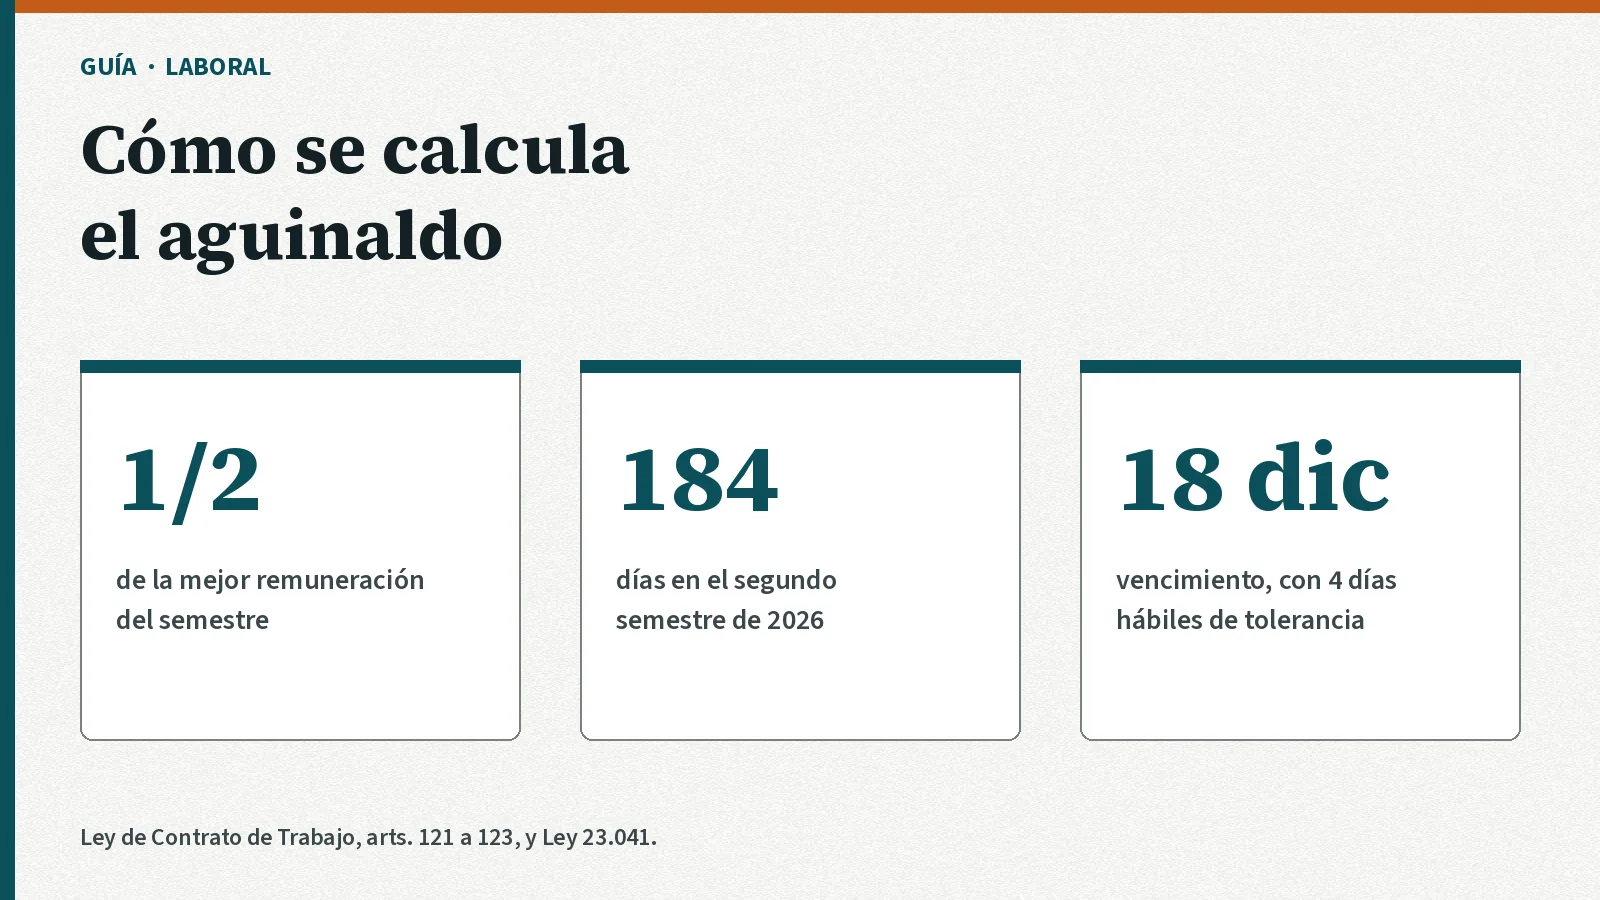
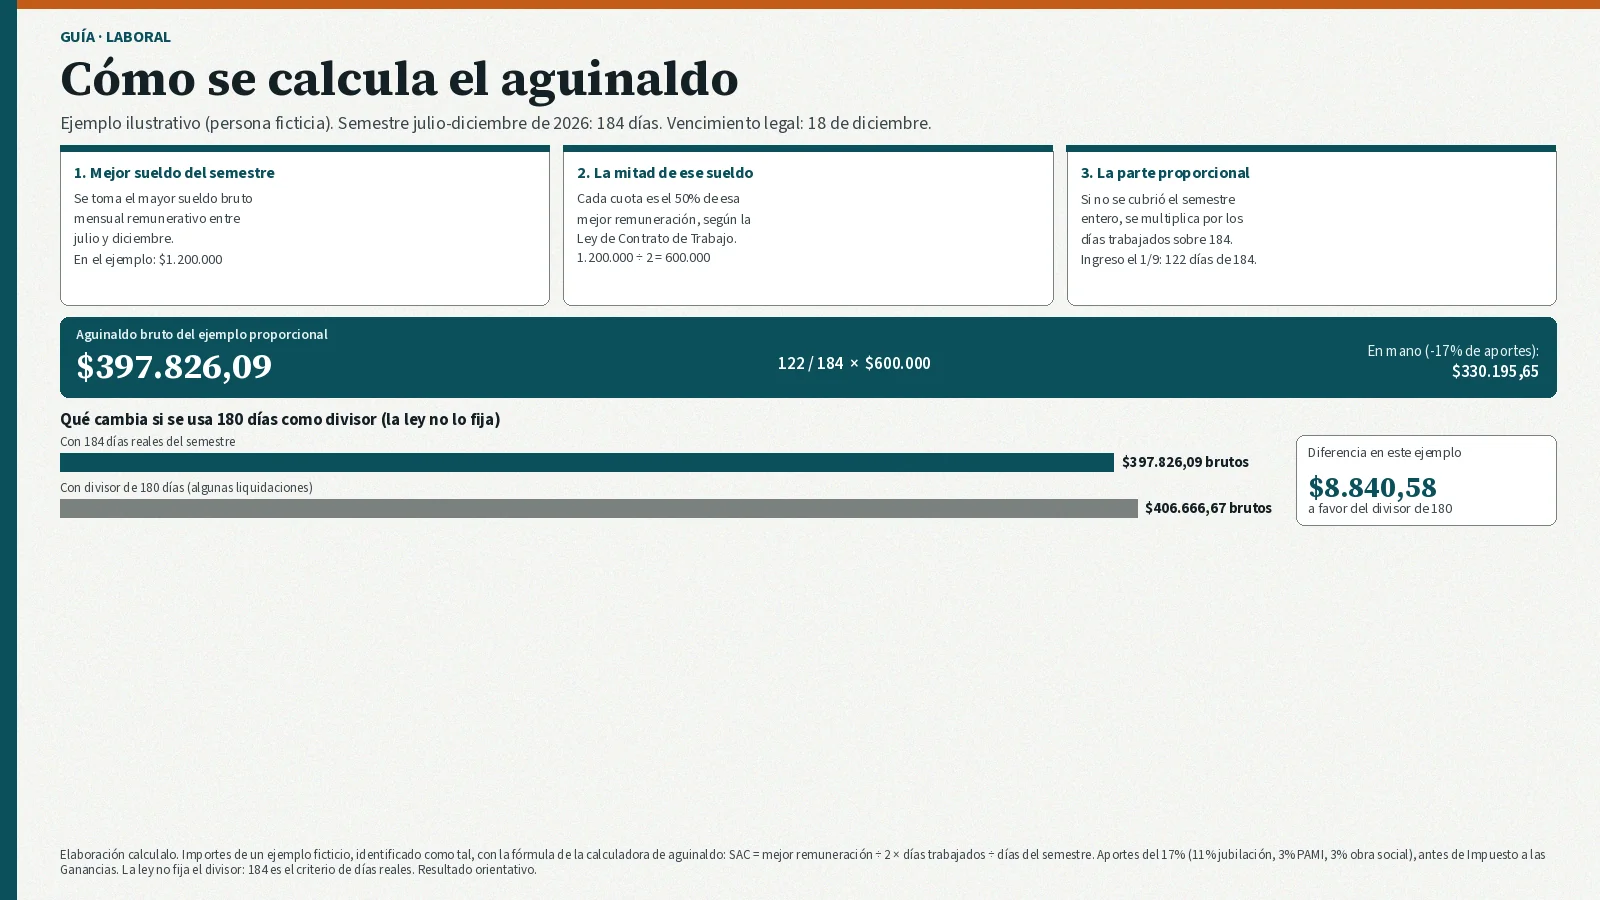
Noticias: tarifas DNI (Res. RENAPER 151/2026) y guía del aguinaldo

diff --git a/content/noticias/como-se-calcula-el-aguinaldo.md b/content/noticias/como-se-calcula-el-aguinaldo.md
@@ -1,44 +1,114 @@
 ---
 titulo: "Cómo se calcula el aguinaldo"
-bajada: "Es la mitad de la mejor remuneración del semestre, o la parte proporcional si no trabajaste los seis meses. En el segundo semestre de 2026 el período tiene 184 días y se paga hasta el 18 de diciembre."
+bajada: "Es la mitad de la mejor remuneración del semestre, o la parte proporcional si no se trabajaron los seis meses. En el segundo semestre de 2026 el período tiene 184 días y el vencimiento legal es el 18 de diciembre."
 slug: como-se-calcula-el-aguinaldo
 tipo: guia
 categoria: laboral
-fechaPublicacion: "2026-11-01"
-fechaActualizacion: "2026-11-01"
+fechaPublicacion: "2026-11-12"
+fechaActualizacion: "2026-11-12"
 autor: "Redacción Calculalo"
-borrador: true
+borrador: false
 imagen:
   src: /noticias/imagenes/como-se-calcula-el-aguinaldo-16x9.webp
-  alt: "Ilustración editorial sobre el cálculo del aguinaldo: la mitad de la mejor remuneración del semestre, 184 días en el segundo semestre de 2026, y vencimiento el 18 de diciembre."
-  credito: "Ilustración: calculalo, con base en la Ley de Contrato de Trabajo y la Ley 23.041."
-  epigrafe: "Tres datos de la guía: el aguinaldo es la mitad de la mejor remuneración del semestre, en el segundo de 2026 el divisor es 184 días y se paga hasta el 18 de diciembre."
+  alt: "Infografía de un ejemplo ficticio para calcular el aguinaldo: mejor sueldo del semestre de $1.200.000, la mitad ($600.000) y la parte proporcional de 122 días sobre 184, que da un bruto de $397.826,09 y $330.195,65 en mano tras el 17% de aportes. Abajo, la comparación con el divisor de 180 días, que en el mismo caso da $406.666,67: $8.840,58 más. La ley no fija el divisor. El vencimiento legal es el 18 de diciembre."
+  credito: "Elaboración calculalo, con un ejemplo ficticio identificado como tal y la fórmula de la calculadora de aguinaldo, con base en la Ley de Contrato de Trabajo y la Ley 23.041."
+  epigrafe: "Pasos de un ejemplo ficticio: la mitad de la mejor remuneración del semestre y, si no se cubrió entero, la parte proporcional sobre 184 días. El vencimiento legal es el 18 de diciembre. El divisor de 180 no está fijado por la ley."
   og: /noticias/imagenes/como-se-calcula-el-aguinaldo-og.webp
 calculadoraRelacionada:
   categoria: laboral
   slug: aguinaldo
 enPocasPalabras:
   - "El sueldo anual complementario (aguinaldo) es la mitad de la mejor remuneración mensual del semestre."
-  - "Si no trabajaste el semestre entero, se calcula en proporción a los días. En el segundo semestre de 2026 esos días son 184."
-  - "Se paga hasta el 18 de diciembre, con una tolerancia de 4 días hábiles. Tiene los mismos aportes del 17% que el sueldo."
+  - "Si no se trabajó el semestre entero, se calcula en proporción a los días. En el segundo semestre de 2026 esos días son 184."
+  - "El artículo 122 de la Ley de Contrato de Trabajo fija el vencimiento de la segunda cuota el 18 de diciembre. El aguinaldo lleva los mismos aportes del 17% que el sueldo."
 fuentes:
-  - titulo: "Ley de Contrato de Trabajo, arts. 121 a 123, y Ley 23.041 (texto en InfoLEG)."
+  - titulo: "Ley de Contrato de Trabajo, texto actualizado, artículos 121, 122, 123 y 128 (InfoLEG)."
     url: "https://servicios.infoleg.gob.ar/infolegInternet/anexos/25000-29999/25552/texact.htm"
-  - titulo: "Vencimientos: 30 de junio y 18 de diciembre, con tolerancia de 4 días hábiles (Ley 23.041, con la modificación de la Ley 27.073)."
-    url: "https://servicios.infoleg.gob.ar/infolegInternet/anexos/25000-29999/25552/texact.htm"
+  - titulo: "Ley 27.073, que modificó el artículo 122 de la LCT y fijó los vencimientos el 30 de junio y el 18 de diciembre."
+    url: "https://servicios.infoleg.gob.ar/infolegInternet/anexos/240000-244999/241014/norma.htm"
+  - titulo: "Ley 23.041, sueldo anual complementario, regla del 50% de la mayor remuneración mensual y carácter de orden público."
+    url: "https://servicios.infoleg.gob.ar/infolegInternet/anexos/25000-29999/28165/norma.htm"
+  - titulo: "Decreto 1078/1984, reglamentación de la Ley 23.041, proporcionalidad sobre el 50% de la mayor remuneración mensual."
+    url: "https://servicios.infoleg.gob.ar/infolegInternet/anexos/105000-109999/105143/norma.htm"
+  - titulo: "Ley 24.241, artículos 6 (el sueldo anual complementario es remuneración) y 11 (aporte personal jubilatorio del 11%)."
+    url: "https://servicios.infoleg.gob.ar/infolegInternet/anexos/0-4999/639/texact.htm"
+  - titulo: "Ley 19.032, artículo 8, inciso d (aporte del 3% al INSSJP-PAMI)."
+    url: "https://www.argentina.gob.ar/normativa/nacional/ley-19032-16081/actualizacion"
+  - titulo: "Ley 23.660, artículo 16, inciso b (aporte del 3% a la obra social)."
+    url: "https://servicios.infoleg.gob.ar/infolegInternet/anexos/0-4999/62/texact.htm"
 faq:
   - q: "¿Cuándo se paga el aguinaldo de diciembre de 2026?"
-    a: "Hasta el 18 de diciembre, con una tolerancia de 4 días hábiles."
-  - q: "¿Por qué se divide por 184 y no por 180?"
-    a: "La ley habla de proporción al tiempo trabajado y no fija un divisor. Usamos los días reales del semestre (184 en el segundo de 2026). Algunas calculadoras usan 180 y dan un monto un poco mayor."
+    a: "El artículo 122 de la Ley de Contrato de Trabajo fija el vencimiento el 18 de diciembre. En 2026 cae viernes. Hay quienes aplican por analogía los cuatro días hábiles del artículo 128, pensado para remuneraciones mensuales o quincenales; no es un segundo vencimiento escrito para el aguinaldo."
+  - q: "¿El aguinaldo de diciembre se calcula solo con el sueldo de ese mes?"
+    a: "No. Se toma el mes de mayor remuneración devengada entre julio y diciembre, que puede ser diciembre u otro. Si diciembre termina siendo el más alto y se había estimado de menos, corresponde ajustar."
+  - q: "¿Tengo derecho al aguinaldo si renuncié en octubre?"
+    a: "Sí, al proporcional por el tiempo trabajado en el semestre, que se paga en la liquidación final."
+  - q: "¿Puedo exigir que me lo calculen con divisor de 180 días?"
+    a: "La ley no elige entre 180 y los días reales del semestre. Es un punto de criterio. La calculadora de calculalo usa 184 días en el segundo semestre de 2026 y lo aclara."
   - q: "¿El aguinaldo tiene descuentos?"
-    a: "Sí. Los mismos aportes del 17% que el sueldo, con el tope de ANSES del mes de pago. También puede pagar Ganancias, según tu situación."
+    a: "Sí. Los mismos aportes del 17% que el sueldo (11% de jubilación, 3% de PAMI y 3% de obra social), con el tope de la base imponible de ANSES del mes de pago. También puede quedar alcanzado por Ganancias, según la situación de cada persona."
 ---
 
-El aguinaldo, o sueldo anual complementario, está en los artículos 121 a 123 de la Ley de Contrato de Trabajo y en la Ley 23.041. Se paga en dos cuotas: la primera, el 30 de junio; la segunda, el 18 de diciembre, con una tolerancia de 4 días hábiles.
+El aguinaldo —en la ley, sueldo anual complementario o SAC— no es un bono discrecional. En la actividad privada se paga en dos cuotas: la primera, el 30 de junio; la segunda, el 18 de diciembre de cada año. Así lo fija el artículo 122 de la Ley de Contrato de Trabajo, con el texto de la Ley 27.073.
 
-La cuota es el 50% de la mayor remuneración mensual devengada en el semestre. Si entraste o saliste en el medio, corresponde la parte proporcional al tiempo trabajado. La ley no fija un divisor de 180 días. En calculalo usamos los días reales del semestre, el criterio habitual del software de liquidación: 181 días en el primer semestre de 2026 (2026 no es bisiesto) y 184 en el segundo, del 1 de julio al 31 de diciembre.
+La cuenta de diciembre mira el semestre que va del 1° de julio al 31 de diciembre. Se toma el 50% de la mayor remuneración mensual devengada por todo concepto en ese período. Esa regla está en el mismo artículo 122 y en la Ley 23.041, de orden público.
 
-La fórmula queda así: aguinaldo = (mejor remuneración ÷ 2) × (días trabajados ÷ días del semestre). Sobre ese bruto se aplican los aportes de ley del trabajador: 11% de jubilación, 3% de PAMI y 3% de obra social, el 17% en total, con el tope de la base imponible de ANSES del mes en que se paga.
+Si la relación laboral empezó o terminó en el medio del semestre, no se pierde el derecho: se paga la parte proporcional al tiempo trabajado, según el Decreto 1078/1984, que reglamenta la Ley 23.041. Para el caso de extinción del contrato, el artículo 123 de la LCT también prevé el pago proporcional.
 
-El aguinaldo también entra en la base de Ganancias, si te corresponde retención. Eso se calcula aparte, en la calculadora de Ganancias de cuarta categoría.
+## Qué hay que tener a mano para hacer la cuenta
+
+Hace falta el mejor sueldo bruto mensual remunerativo del semestre, no el neto de bolsillo. También, si no se trabajó desde el 1° de julio hasta el 31 de diciembre, las fechas de ingreso y de egreso.
+
+Por “mejor remuneración mensual devengada por todo concepto” la norma apunta al mes de mayor total, no al sueldo básico suelto. Entran los conceptos remunerativos de ese mes. Las horas extras, si son remunerativas y forman parte de ese total, pueden convertir a un mes en el más alto del semestre.
+
+No todos los ítems del recibo se comportan igual. Un no remunerativo, un reintegro o un concepto de naturaleza distinta puede quedar fuera de la base. Eso depende del recibo, del convenio y, en caso de duda, de un criterio profesional. La calculadora de aguinaldo parte del total remunerativo que se le indica; no clasifica cada renglón del recibo.
+
+## Cómo se calcula si se trabajó el semestre completo
+
+La fórmula de cada cuota es sencilla: la mitad de esa mejor remuneración.
+
+Ejemplo ilustrativo, con una persona ficticia. Si el mejor sueldo bruto del semestre julio-diciembre fue de $1.200.000 y se trabajaron los 184 días, el aguinaldo bruto de diciembre es $600.000. Sobre ese importe se descuentan los mismos aportes del sueldo: 11% de jubilación, 3% del Instituto Nacional de Servicios Sociales para Jubilados y Pensionados (PAMI) y 3% de obra social, el 17% en total. En mano, antes del Impuesto a las Ganancias, quedan $498.000.
+
+En 2026 el segundo semestre tiene 184 días corridos. El primero tiene 181, porque 2026 no es bisiesto.
+
+## Si se entró o se salió en el medio
+
+Cuando no se cubre el semestre entero, la liquidación habitual —y la que usa la [calculadora de aguinaldo](/laboral/aguinaldo/)— es esta:
+
+SAC = mejor remuneración ÷ 2 × días trabajados ÷ días del semestre.
+
+La ley dice que el pago es proporcional al tiempo trabajado, pero no fija el divisor. Algunas liquidaciones usan 180 días. La calculadora de calculalo toma los días reales del semestre, un criterio frecuente en el software de liquidación. Usar 180 suele dar un importe un poco mayor.
+
+Otro ejemplo ficticio. La misma persona, con el mismo mejor sueldo de $1.200.000, ingresó el 1° de septiembre de 2026 y trabajó hasta el 31 de diciembre: 122 días sobre 184. El aguinaldo bruto queda en $397.826,09. En mano, con el 17% de aportes y antes de Ganancias, $330.195,65.
+
+Si en ese mismo caso se dividiera por 180, el bruto subiría a $406.666,67: $8.840,58 más. No hay una norma que imponga uno u otro divisor. Conviene mirar cómo lo liquida el empleador y, si la diferencia importa, consultarlo.
+
+Los días se cuentan de corrido, desde la fecha de ingreso (o el 1° de julio, si se empezó antes) hasta la de egreso (o el 31 de diciembre). El 3 de octubre, por caso, deja 90 días hasta fin de año.
+
+## La estimación del sueldo de diciembre
+
+Para pagar el 18 de diciembre el empleador todavía no tiene, en muchos casos, el sueldo de ese mes cerrado. El artículo 122 le impone estimar esa remuneración. Si después el salario efectivamente devengado en diciembre es distinto —por un aumento, por horas extras o por otro concepto remunerativo— debe recalcular la cuota. La diferencia se integra al salario de diciembre.
+
+Eso importa cuando diciembre termina siendo el mejor mes del semestre. El aguinaldo pagado el 18 puede quedar corto y corresponder un ajuste con la liquidación de fin de mes.
+
+## Hasta cuándo se paga
+
+La fecha expresa de la segunda cuota es el 18 de diciembre. En 2026 cae viernes.
+
+Hay quienes aplican al SAC el artículo 128 de la LCT, que da hasta cuatro días hábiles para pagar las remuneraciones mensuales o quincenales una vez vencido el período. Esa norma no menciona al aguinaldo. El plazo que la ley escribe para esta cuota sigue siendo el 18 de diciembre. Tratar los cuatro días hábiles como una prórroga automática es una interpretación, no un vencimiento distinto fijado en el artículo 122.
+
+Si la persona deja de trabajar antes —por renuncia, despido u otra extinción— el proporcional se paga en la liquidación final. El artículo 123 habla de la doceava parte de las remuneraciones devengadas en la fracción del semestre. El Decreto 1078/1984, que reglamenta la Ley 23.041, hace la proporcionalidad sobre el 50% de la mayor remuneración mensual del semestre. No siempre dan el mismo número. La calculadora de calculalo, y la cuenta habitual de las cuotas de junio y diciembre, siguen el criterio de la mejor remuneración. Un caso litigioso conviene revisarlo con un abogado laboralista. Para armar la liquidación, también está la [calculadora de liquidación final](/laboral/liquidacion-final/).
+
+## Qué se descuenta y cómo leer el recibo
+
+El aguinaldo bruto no es lo que se deposita. Se le aplican los aportes de la seguridad social, como al sueldo. Además puede quedar alcanzado por el Impuesto a las Ganancias si el conjunto de los ingresos anuales supera las deducciones personales. Eso no se resuelve con una alícuota única: depende de la situación de cada persona. La [calculadora de Ganancias](/impuestos/ganancias/) sirve para estimar la retención anual; la de aguinaldo informa el neto de aportes, antes de ese impuesto.
+
+En el recibo conviene ubicar el ítem del SAC, la base que se tomó, los descuentos y, si hubo un recálculo de diciembre, el ajuste. Si el mejor mes no coincide con el que uno recuerda, vale contrastar los totales remunerativos de julio a diciembre, no solo el básico.
+
+## Límites de esta cuenta
+
+El resultado es orientativo. No reemplaza el asesoramiento de un contador o de un abogado laboralista.
+
+Un convenio colectivo, un acuerdo de empresa o una cláusula particular pueden agregar condiciones, pero no pueden dejar de aplicar la regla de orden público del 50% de la mejor remuneración. La calculadora no incorpora un convenio específico ni clasifica cada concepto del recibo. Tampoco calcula la retención de Ganancias de ese mes.
+
+Con el mejor sueldo bruto del semestre y, si corresponde, las fechas de ingreso o egreso, se puede estimar el importe en la [calculadora de aguinaldo](/laboral/aguinaldo/). El dato que hay que cargar es ese total remunerativo, no el sueldo de bolsillo.

diff --git a/content/noticias/dni-nuevas-tarifas-renaper.md b/content/noticias/dni-nuevas-tarifas-renaper.md
@@ -1,0 +1,64 @@
+---
+titulo: "El DNI regular pasará a costar $20.000 desde el 21 de noviembre"
+bajada: "La Resolución 151/2026, publicada este miércoles en el Boletín Oficial, actualizó el cuadro tarifario del RENAPER, duplicó los aranceles principales del documento y ató las próximas subas al índice de inflación."
+slug: dni-nuevas-tarifas-renaper
+tipo: actualidad
+categoria: finanzas
+fechaPublicacion: "2026-11-12"
+fechaActualizacion: "2026-11-12"
+autor: "Redacción Calculalo"
+borrador: false
+imagen:
+  src: /noticias/imagenes/dni-nuevas-tarifas-renaper-16x9.webp
+  alt: "Gráfico de barras horizontales que compara aranceles del DNI: el regular de personas argentinas pasa de $10.000 a $20.000; el exprés, de $26.000 a $52.000; el de 24 horas hábiles, de $41.000 a $82.000; el instantáneo, de $57.000 a $114.000; y el de personas extranjeras, de $20.000 a $40.000. Las tarifas anteriores son de la Resolución 19/2026, vigentes hasta el 20 de noviembre de 2026; las nuevas, de la Resolución 151/2026, desde el 21 de noviembre."
+  credito: "Elaboración calculalo, con datos de los anexos de la Resolución 19/2026 y de la Resolución 151/2026."
+  epigrafe: "Aranceles principales del DNI: lo que rige hasta el 20 de noviembre de 2026 y lo que valdrá desde el 21, según los anexos de las Resoluciones 19/2026 y 151/2026."
+  og: /noticias/imagenes/dni-nuevas-tarifas-renaper-og.webp
+calculadoraRelacionada:
+  categoria: finanzas
+  slug: inflacion
+enPocasPalabras:
+  - "El DNI regular de personas argentinas pasa de $10.000 a $20.000 desde el 21 de noviembre de 2026."
+  - "El DNI exprés, el de 24 horas hábiles y el instantáneo también duplican su arancel; no todos los trámites se duplican."
+  - "Las tarifas se expresan en Unidades Arancelarias Documentales de $1.000 y se actualizarán cada seis meses según el IPC."
+fuentes:
+  - titulo: "Resolución 151/2026 de la Vicejefatura de Gabinete del Interior, texto en InfoLEG (Boletín Oficial, 11/11/2026)."
+    url: "https://www.argentina.gob.ar/normativa/nacional/norma-432100/texto"
+  - titulo: "Anexo IF-2026-107328731-APN-RENAPER#MI de la Resolución 151/2026, con el cuadro tarifario en UAD y en pesos."
+    url: "https://www.argentina.gob.ar/sites/default/files/infoleg/432100/res151-1.pdf"
+  - titulo: "Anexo de la Resolución 19/2026 del entonces Ministerio del Interior, cuadro tarifario anterior."
+    url: "https://www.argentina.gob.ar/sites/default/files/infoleg/423589/res19.pdf"
+faq:
+  - q: "¿Desde cuándo rigen las nuevas tarifas del DNI?"
+    a: "A los diez días de la publicación en el Boletín Oficial, es decir, el 21 de noviembre de 2026."
+  - q: "¿El primer DNI de un bebé sigue siendo gratis?"
+    a: "Sí. El primer documento de los niños de 0 a 6 meses nacidos en el país permanece sin cargo, de acuerdo con la Ley 26.061. La resolución no afecta las exenciones ni las gratuidades vigentes."
+  - q: "¿Todos los trámites del RENAPER se duplicaron?"
+    a: "No. Los aranceles principales del DNI (regular, exprés, 24 horas, al instante y el de personas extranjeras) se duplican respecto de la Resolución 19/2026. Otros trámites, como las copias autenticadas, el peritaje o la autorización de viaje de menores, aumentan en otra proporción."
+  - q: "¿Cómo se van a actualizar estas tarifas de ahora en más?"
+    a: "El valor de la Unidad Arancelaria Documental se actualizará cada seis meses según la variación del IPC del INDEC. Cada tasa se redondeará al múltiplo de $500 más cercano, salvo los servicios de validación de identidad."
+---
+
+El Registro Nacional de las Personas (RENAPER) aplicará un nuevo cuadro de aranceles a partir del 21 de noviembre de 2026. Así lo dispuso la Resolución 151/2026 de la Vicejefatura de Gabinete del Interior, publicada el 11 de noviembre en el Boletín Oficial.
+
+La norma convierte las tarifas a Unidades Arancelarias Documentales (UAD) y fija el valor inicial de cada unidad en $1.000. Con esa equivalencia, el DNI regular de las personas argentinas —la actualización de los 5, 8 o 14 años, el cambio de domicilio, la rectificación de datos con emisión o un ejemplar nuevo— pasa de $10.000 a $20.000.
+
+Las modalidades más rápidas también se duplican. El DNI exprés pasa de $26.000 a $52.000; el que se retira en 24 horas hábiles, de $41.000 a $82.000; y el DNI al instante, solo en oficinas habilitadas, de $57.000 a $114.000. Para la primera identificación y las actualizaciones de personas extranjeras, el arancel pasa de $20.000 a $40.000.
+
+Esos importes anteriores constan en el anexo de la Resolución 19/2026 del entonces Ministerio del Interior, cuyo artículo 1° queda sin efecto. No todos los trámites se duplican: las copias autenticadas suben de $8.000 a $10.500 y de $9.000 a $11.500; el peritaje de DNI (informe forense) pasa de $15.000 a $19.500; y la autorización de viaje al exterior de menores con pasaporte ordinario, de $30.000 a $39.000.
+
+La medida entra en vigencia a los diez días de su publicación, es decir, el sábado 21 de noviembre. El valor de la UAD y el cuadro en pesos deberán publicarse para consulta permanente en argentina.gob.ar y comunicarse a los registros civiles provinciales.
+
+## Qué sigue sin cargo
+
+El primer DNI de los niños de 0 a 6 meses nacidos en el país permanece sin cargo, de acuerdo con la Ley 26.061. También sigue sin costo la rectificación de datos cuando no se emite un nuevo ejemplar. La resolución aclara que el régimen no afecta las exenciones ni las gratuidades vigentes.
+
+## Cómo se actualizarán las tarifas de ahora en más
+
+A partir de esta resolución, el RENAPER deberá actualizar el valor de la UAD cada seis meses, tomando como referencia la variación del Índice de Precios al Consumidor (IPC) que publica el Instituto Nacional de Estadística y Censos (INDEC), desde la última actualización.
+
+El organismo convertirá ese valor a pesos con dos decimales. El importe de cada tasa se redondeará al múltiplo de $500 más cercano, con una excepción: los servicios de validación de identidad, que no se redondean.
+
+El propio anexo ya muestra cómo opera esa regla. Una copia autenticada quedó en 10,4 UAD: 10,4 × $1.000 da $10.400, que se redondea a $10.500. Otra categoría, de 11,7 UAD, da $11.700 y se redondea a $11.500, el múltiplo de $500 más cercano. En cambio, un servicio de validación de datos de 0,12 UAD se expresa en $120, sin ese redondeo.
+
+Los montos que rigen el 21 de noviembre ya están convertidos en el anexo; no hace falta recalcularlos. Cuando llegue la próxima actualización semestral, la [calculadora de inflación](/finanzas/inflacion/) permite medir la variación oficial del IPC entre dos meses. Esa variación es el dato que la norma toma como referencia para reajustar la UAD, no un arancel del DNI por sí misma. La resolución no fija la fecha exacta de la primera actualización semestral ni el período preciso de IPC que se tomará: eso deberá instrumentarlo el RENAPER y publicarse en el portal oficial.
